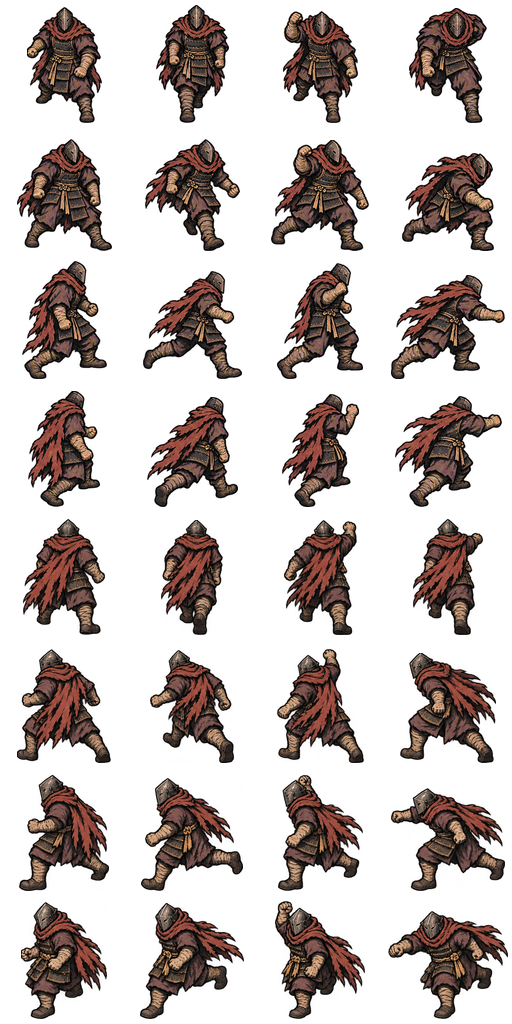
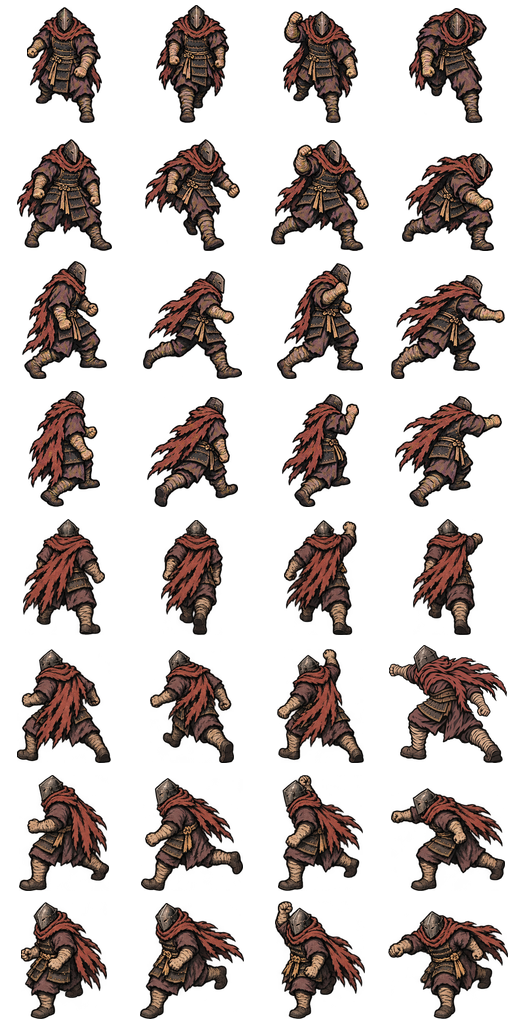
Register the Haunted Executioner sword through its raised guard and descending stroke

Changed region(s): [[0.75, 0.625, 1.0, 0.75]]

diff --git a/client-unity/UnityProject/Assets/Scripts/Presentation/SpriteActorPresenter.cs b/client-unity/UnityProject/Assets/Scripts/Presentation/SpriteActorPresenter.cs
@@ -460,7 +460,12 @@ namespace Roguehalla.Client
                     frame = phase == StormInkWeaponMotion.Phase.Ready ? 0 :
                         phase == StormInkWeaponMotion.Phase.Strike ? count / 2 : count - 1;
                 }
-                var painted = StormInkActors.Frame(kind, faction, mob, appearance, frames, direction, frame, count, out bool mirror);
+                // A two-frame catalog attack has no separate recovery drawing. Its duration
+                // still drives the action, while painted art uses all four authored pose slots.
+                int inkFrame = useWeaponPhase ? phase == StormInkWeaponMotion.Phase.Ready ? 0 :
+                    phase == StormInkWeaponMotion.Phase.Strike ? 2 : 3 : frame;
+                var painted = StormInkActors.Frame(kind, faction, mob, appearance, frames, direction,
+                    inkFrame, useWeaponPhase ? 4 : count, out bool mirror);
                 a.Body.sprite = painted != null ? painted : frames[Mathf.Min(frames.Length - 1, direction * count + frame)];
                 float height = appearance.WorldHeight;
                 float fall = painted != null && dead && frames == appearance.Death
@@ -558,15 +563,11 @@ namespace Roguehalla.Client
             {
                 int poseRow = StormInkActors.PoseRowForFacing(poseFacing);
                 var pose = StormInkWeaponMotion.Sample(faction.Value, weapon.Value, phase, weaponProgress, poseRow, reduced);
-                if (kind == ActorKind.RegionalMob && mob == MobTypeId.AshDrake)
-                    pose = StormInkActors.DrakeCast(pose, phase, weaponProgress, poseRow, reduced);
+                pose = RegionalWeaponPose(a, pose, phase, weaponProgress, poseRow, reduced);
                 if (useWeaponPhase) a.Body.transform.localRotation = Quaternion.Euler(0, 0, pose.BodyLean);
                 var authored = StormInkWeaponArt.Get(weapon.Value, poseRow);
                 var sprite = authored != null ? authored : ShowcaseSprites.Get(StormInkWeaponMotion.KeyFor(weapon.Value));
-                // The drake is a low-slung quadruped. Keep its bite-mounted focus inside the
-                // same visual reach as the head and clear of the elite health bar.
-                float scale = StormInkWeaponMotion.Size / ActorVisualScale;
-                if (mob == MobTypeId.AshDrake && kind == ActorKind.RegionalMob) scale *= .53f;
+                float scale = EquipmentScale(a);
                 var signedScale = new Vector3(authored == null && pose.FlipFallback ? -scale : scale, scale, scale);
                 var offset = SpriteSocket(sprite, StormInkWeaponArt.Grip(weapon.Value, poseRow), signedScale);
 

diff --git a/client-unity/UnityProject/Assets/Scripts/Presentation/StormInkActors.Executioner.cs b/client-unity/UnityProject/Assets/Scripts/Presentation/StormInkActors.Executioner.cs
@@ -1,0 +1,39 @@
+using UnityEngine;
+
+namespace Roguehalla.Client
+{
+    /// <summary>The Haunted Executioner lifts its sword beside the hood and finishes the cut low.</summary>
+    public static partial class StormInkActors
+    {
+        static readonly Hands[] ExecutionerPalms =
+        {
+            new Hands(32, 51, 81, 72), new Hands(44, 60, 92, 60), new Hands(37, 19, 96, 71), new Hands(40, 71, 89, 24), // S
+            new Hands(39, 66, 95, 72), new Hands(43, 62, 106, 62), new Hands(50, 24, 106, 72), new Hands(101, 75, 50, 57), // SE
+            new Hands(62, 66, 89, 53), new Hands(98, 59, 71, 48), new Hands(85, 33, 89, 52), new Hands(111, 58, 72, 51), // E
+            new Hands(87, 68, 92, 49), new Hands(96, 75, 82, 60), new Hands(96, 25, 69, 50), new Hands(110, 38, 72, 50), // NE
+            new Hands(97, 61, 45, 60), new Hands(88, 67, 40, 58), new Hands(94, 19, 35, 64), new Hands(91, 26, 39, 58), // N
+            new Hands(94, 58, 28, 61), new Hands(98, 62, 28, 61), new Hands(74, 16, 26, 72), new Hands(9, 30, 100, 70), // NW
+            new Hands(34, 58, 57, 61), new Hands(24, 70, 54, 53), new Hands(45, 15, 34, 71), new Hands(14, 49, 74, 71), // W
+            new Hands(26, 59, 49, 72), new Hands(42, 60, 52, 68), new Hands(29, 15, 58, 78), new Hands(13, 53, 93, 58), // SW
+        };
+
+        internal static StormInkWeaponMotion.Pose ExecutionerCut(StormInkWeaponMotion.Pose pose,
+            StormInkWeaponMotion.Phase phase, float progress, int row, bool reduced)
+        {
+            // A compact upward draw holds the blade above the shoulder. Contact folds the
+            // armored torso forward; the final beat leaves the sword low before the guard returns.
+            float side = row >= 5 ? -1f : 1f;
+            float into = Mathf.SmoothStep(0f, 1f, Mathf.Clamp01(progress));
+            float extra = 0f, lean = 0f;
+            switch (phase)
+            {
+                case StormInkWeaponMotion.Phase.Guard: extra = 14f; break;
+                case StormInkWeaponMotion.Phase.Ready: extra = Mathf.Lerp(14f, 42f, into); lean = -5f * into; break;
+                case StormInkWeaponMotion.Phase.Strike: extra = -39f; lean = 11f; break;
+                case StormInkWeaponMotion.Phase.Follow: extra = Mathf.Lerp(-47f, 14f, into); lean = 9f * (1f - into); break;
+            }
+            return new StormInkWeaponMotion.Pose(pose.Grip, pose.Angle + side * extra, pose.Behind,
+                pose.FlipFallback, reduced ? 0f : pose.BodyLean - side * lean, false, false);
+        }
+    }
+}

diff --git a/client-unity/UnityProject/Assets/Scripts/Presentation/SpriteActorPresenter.CombatCues.cs b/client-unity/UnityProject/Assets/Scripts/Presentation/SpriteActorPresenter.CombatCues.cs
@@ -15,6 +15,25 @@ namespace Roguehalla.Client
                 StormInkActors.TryCreatureFocus(a.MobType, a.Body.sprite, out uv)
             : StormInkActors.TryHand(a.Faction, a.Body.sprite, leftHand, out uv);
 
+        static StormInkWeaponMotion.Pose RegionalWeaponPose(Art a, StormInkWeaponMotion.Pose pose,
+            StormInkWeaponMotion.Phase phase, float progress, int row, bool reduced)
+        {
+            if (a.Kind != ActorKind.RegionalMob) return pose;
+            return a.MobType switch
+            {
+                MobTypeId.AshDrake => StormInkActors.DrakeCast(pose, phase, progress, row, reduced),
+                MobTypeId.Executioner => StormInkActors.ExecutionerCut(pose, phase, progress, row, reduced),
+                _ => pose
+            };
+        }
+
+        static float EquipmentScale(Art a)
+        {
+            // A bite-mounted focus must clear the drake's ground marker and overhead health bar.
+            float scale = StormInkWeaponMotion.Size / ActorVisualScale;
+            return a.Kind == ActorKind.RegionalMob && a.MobType == MobTypeId.AshDrake ? scale * .53f : scale;
+        }
+
         static void ClearWeaponMotion(Art a)
         {
             a.AttackAt = a.AttackUntil = a.WindupAt = a.WindupUntil = 0f;

diff --git a/client-unity/UnityProject/Assets/Scripts/Presentation/StormInkActors.MobHands.cs b/client-unity/UnityProject/Assets/Scripts/Presentation/StormInkActors.MobHands.cs
@@ -20,14 +20,15 @@ namespace Roguehalla.Client
         };
 
         internal static bool HasMobWeaponTrack(ActorKind kind, FactionId? faction, MobTypeId? mob, WeaponId? weapon) =>
-            kind == ActorKind.RegionalMob && ((mob == MobTypeId.Bailiff && faction == FactionId.Sentenced && weapon == WeaponId.Sword) ||
+            kind == ActorKind.RegionalMob && (((mob == MobTypeId.Bailiff || mob == MobTypeId.Executioner) && faction == FactionId.Sentenced && weapon == WeaponId.Sword) ||
                 (mob == MobTypeId.AshDrake && faction == FactionId.Fire && weapon == WeaponId.Wand));
 
         public static bool TryMobHand(MobTypeId? mob, Sprite body, bool leftHand, out Vector2 uv)
         {
             uv = default;
-            if (mob != MobTypeId.Bailiff || !MobPoseIndex(mob, body, out int index)) return false;
-            uv = BailiffPalms[index].UV(leftHand);
+            var palms = mob == MobTypeId.Bailiff ? BailiffPalms : mob == MobTypeId.Executioner ? ExecutionerPalms : null;
+            if (palms == null || !MobPoseIndex(mob, body, out int index)) return false;
+            uv = palms[index].UV(leftHand);
             return true;
         }
 
